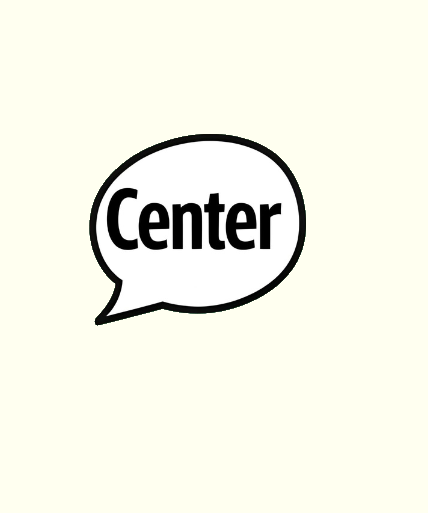
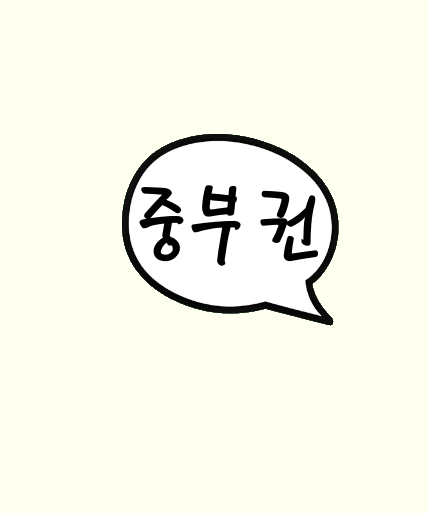
feat:20250421 말풍선 및 footer수정

Changed region(s): [[0.1822, 0.2495, 0.7897, 0.655]]

diff --git a/src/home/Home.jsx b/src/home/Home.jsx
@@ -17,7 +17,7 @@ export default function Home() {
     const [hoverRegion, setHoverRegion] = useState(null);
         
     return(
-
+        // 페이지 전체
         <div className="home-container">
 
             <div className="home-body">
@@ -27,9 +27,11 @@ export default function Home() {
                 <button className="southern-btn" onClick={() => PageMove(navigate, "southern")}>남부권</button>
                 <button className="western-btn" onClick={() => PageMove(navigate, "western")}>서부권</button>
                 </div>
+                {/* 지도 이미지 */}
                     <svg viewBox="0 0 953 700" className="busan-svg-map" xmlns="http://www.w3.org/2000/svg">
+                    {/* 부산 지도 이미지 */}
                     <image href="src\img\busan-1.png" x="0" y="0" width="953" height="700" />
-
+                    {/* 중부권 */}
                     <polygon 
                         points="451,229 481,201 566,174 593,195 576,246 585,261 603,265 618,285 592,321 578,323 577,340 564,360 569,414 561,418 541,422 536,441 535,452 516,452 503,469 480,476 459,482 443,479 418,504 401,484 412,460 400,428 411,398 450,380 475,334 456,322 459,303 438,263"
                         fill="transparent"
@@ -40,7 +42,7 @@ export default function Home() {
                         onMouseLeave={() => setHoverRegion(null)}
                         onClick={() => PageMove(navigate, "central")}
                     />
-
+                    {/* 동부권 */}
                     <polygon 
                         points="600,460 593,434 572,412 565,359 579,347 581,324 598,321 612,301 619,285 603,264 583,255 588,226 593,198 562,170 585,130 602,91 593,72 632,68 676,89 706,74 713,48 701,34 705,27 725,28 737,42 826,28 850,60 858,71 860,92 858,114 890,134 893,155 855,150 828,157 825,206 821,248 793,347 773,382 742,413 707,449 674,468 631,471"
                         fill="transparent"
@@ -51,7 +53,7 @@ export default function Home() {
                         onMouseLeave={() => setHoverRegion(null)}
                         onClick={() => PageMove(navigate, "eastern")}
                     />
-
+                    {/* 서부권 */}
                     <polygon 
                         points="446,229 400,236 400,258 380,300 300,333 276,329 244,339 238,330 219,326 205,345 186,349 161,371 171,389 174,419 185,441 127,431 80,450 33,446 33,468 45,490 80,508 99,541 56,559 86,585 154,604 182,598 233,586 270,596 318,674 355,671 382,668 385,611 402,597 366,533 383,490 399,486 401,453 393,429 406,395 446,376 472,341 449,325 455,303 432,264 448,240"
                         fill="transparent"
@@ -62,7 +64,7 @@ export default function Home() {
                         onMouseLeave={() => setHoverRegion(null)}     
                         onClick={() => PageMove(navigate, "western")}
                     />
-
+                    {/* 남부권 */}
                     <polygon 
                         points="567,411 592,434 600,459 569,491 587,512 599,539 581,568 543,568 501,546 476,533 476,564 504,580 526,620 543,644 536,666 501,646 481,639 460,616 427,594 415,635 397,645 387,613 402,602 399,573 386,543 369,532 376,519 385,491 401,487 416,510 436,490 454,481 477,482 505,470 519,455 539,456 543,431"
                         fill="transparent"

diff --git a/src/detail/western/Western.jsx b/src/detail/western/Western.jsx
@@ -11,9 +11,7 @@ import westImg from "../../img/detail-west.png";
 export default function Western() {
     return (
         <div className="western-cafe">
-            {/* <Header /> */}
             <img src={westImg} alt="지도" className="western"/>
-            
             
                 <div className="western-part1">
                     <a href="https://naver.me/5GpJSfRL" target="_blank" rel="noopener noreferrer">
@@ -62,11 +60,7 @@ export default function Western() {
                         <p>주차가 편하고, 애견동반 가능</p>
                         <p>#조용한 분위기</p>
                     </div>
-                    
                 </div>
-            
-            
-            {/* <Footer /> */}
         </div>
     );
 }

diff --git a/src/header/Header.css b/src/header/Header.css
@@ -1,4 +1,3 @@
-/* 헤더 문구 클릭 시 루트로 가게끔... */
 @font-face {
     font-family: 'Cafe24Ssurround';
     src: url('https://fastly.jsdelivr.net/gh/projectnoonnu/noonfonts_2105_2@1.0/Cafe24Ssurround.woff') format('woff');
@@ -8,7 +7,6 @@
 
 .header button {
     all: unset; 
-    /* font-size: 36px;  */
     font-weight: bold;
     cursor: pointer; 
     display: block; 

diff --git a/src/footer/Footer.css b/src/footer/Footer.css
@@ -3,10 +3,11 @@
   font-family:'LINESeedKR-Bd';
   font-size: 22px;
   text-align: center;
+  font-weight: 50;
 }
 @font-face {
   font-family: 'LINESeedKR-Bd';
   src: url('https://fastly.jsdelivr.net/gh/projectnoonnu/noonfonts_11-01@1.0/LINESeedKR-Bd.woff2') format('woff2');
-  font-weight: 100;
+  font-weight: 100px;
   font-style: normal;
 }

diff --git a/src/detail/southern/Southern.css b/src/detail/southern/Southern.css
@@ -74,10 +74,9 @@
   height: 330px;
 }
 .dog{
-  /* margin-left: 100px; */
+  margin-left: 400px;
   width: 220px;
   height: 220px;
-  /* filter: blur(1px); */
   border-radius: 50%;
   z-index: 2;
 }
@@ -111,7 +110,6 @@
 .south{
   position: absolute;
   z-index: 1;
-
   margin-left: 250px;
-  margin-top: 300px;
+  margin-top: 700px;
 }

diff --git a/src/home/Home.css b/src/home/Home.css
@@ -94,7 +94,7 @@ html,body{
 }
 .region-preview-southern {
   position: absolute;
-  top: 500px;
+  top: 700px;
   left: 1050px; 
   z-index: 1;
 }
